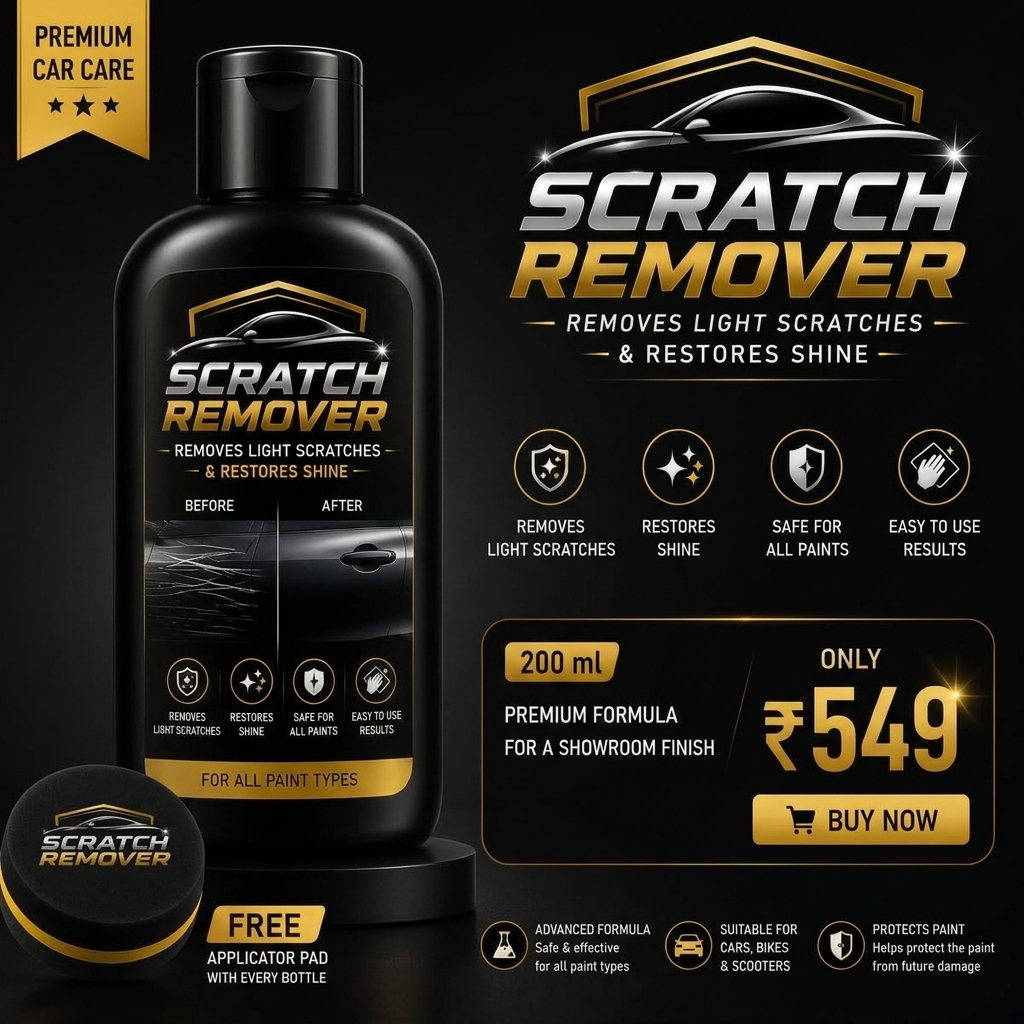
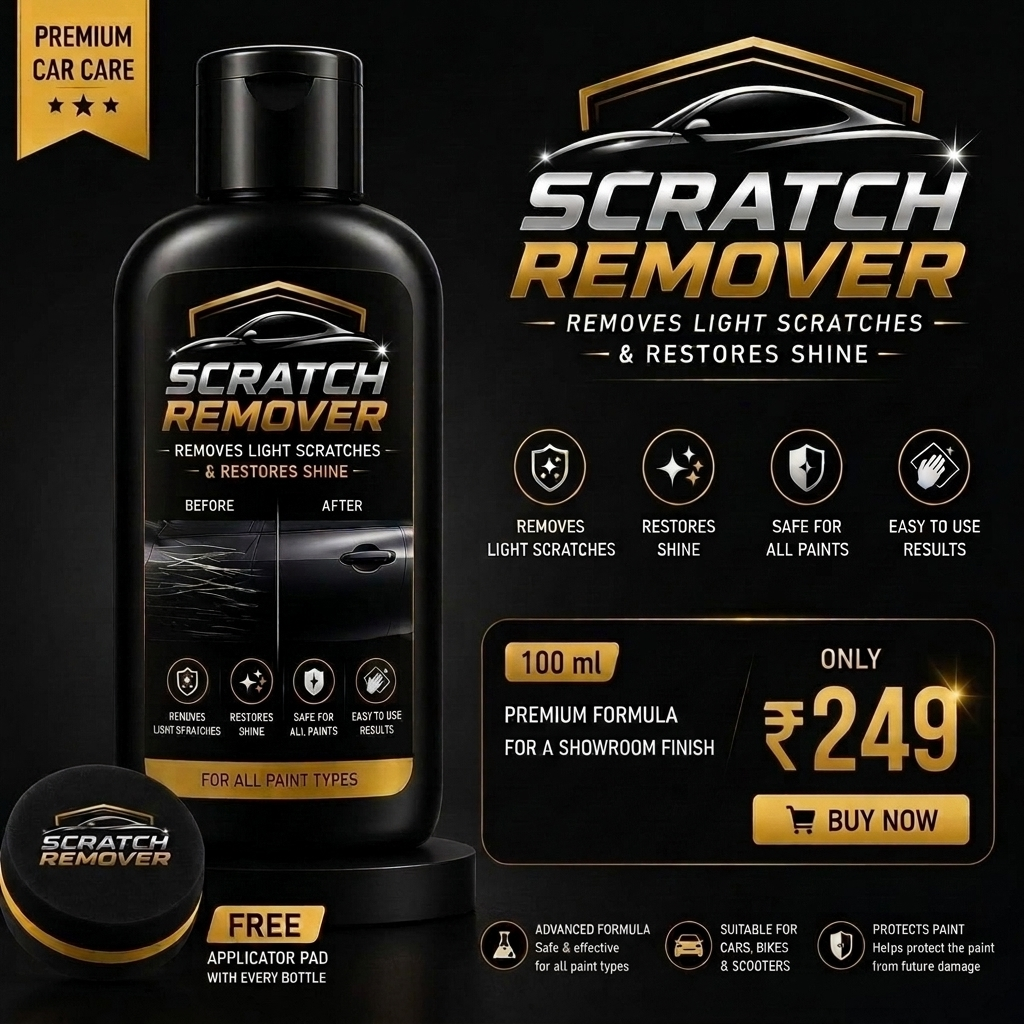
Add files via upload

diff --git a/checkout.html b/checkout.html
@@ -29,7 +29,7 @@
 
     <div class="qr-box">
       <img src="qr_code.jpeg" alt="UPI payment QR code" />
-      <div class="qr-amount" id="qrAmount">549</div>
+      <div class="qr-amount" id="qrAmount">249</div>
       <div class="qr-upi">UPI ID: yourstore@upi &middot; Scan &amp; Pay</div>
     </div>
 
@@ -42,7 +42,7 @@
 
     <div class="order-recap">
       <span>Order total</span>
-      <b>&#8377;<span id="recapAmount">549</span></b>
+      <b>&#8377;<span id="recapAmount">249</span></b>
     </div>
   </div>
 
@@ -86,7 +86,7 @@
         <textarea id="message" name="message" placeholder="Anything else we should know?"></textarea>
       </div>
 
-      <input type="hidden" id="amount" name="amount" value="549" />
+      <input type="hidden" id="amount" name="amount" value="249" />
       <input type="hidden" id="time" name="time" value="" />
 
       <div class="form-submit">
@@ -107,7 +107,7 @@
 
     var params = new URLSearchParams(window.location.search);
     var amount = params.get('amount');
-    if (!amount || isNaN(amount) || Number(amount) <= 0) amount = "549";
+    if (!amount || isNaN(amount) || Number(amount) <= 0) amount = "249";
     document.getElementById('qrAmount').textContent = amount;
     document.getElementById('recapAmount').textContent = amount;
     document.getElementById('amount').value = amount;

diff --git a/index.html b/index.html
@@ -66,21 +66,21 @@
     <div class="watching">&#128064; 97 people are viewing this product now</div>
 
     <div class="price-row">
-      <span class="price-now">&#8377;549</span>
+      <span class="price-now">&#8377;249</span>
       <span class="price-was">&#8377;1,099</span>
       <span class="price-sale">Sale</span>
     </div>
     <div class="ship-note">&#128666; Free shipping across India</div>
 
     <div class="pack-grid" style="grid-template-columns: 1fr;">
-      <div class="pack selected" data-amount="549">
+      <div class="pack selected" data-amount="249">
         <span class="name">1 Pack</span>
-        <div class="amt">549<span class="was">&#8377;1,099</span></div>
+        <div class="amt">249<span class="was">&#8377;1,099</span></div>
       </div>
     </div>
 
     <div class="cta-row">
-      <a href="checkout.html?amount=549" id="mainCta" class="btn btn-primary btn-block">
+      <a href="checkout.html?amount=249" id="mainCta" class="btn btn-primary btn-block">
         <svg width="18" height="18" viewBox="0 0 24 24" fill="none" stroke="currentColor" stroke-width="2"><circle cx="9" cy="21" r="1"/><circle cx="20" cy="21" r="1"/><path d="M1 1h4l2.68 13.39a2 2 0 002 1.61h9.72a2 2 0 002-1.61L23 6H6"/></svg>
         Buy Now &mdash; Pay by UPI QR
       </a>

diff --git a/style.css b/style.css
@@ -210,3 +210,7 @@ footer{background:var(--bg-soft);border-top:1px solid var(--border);padding:40px
 .status-box.error{background:#FDECEA;color:#C6301F;border:1px solid #F6C6C0;}
 .spinner{width:15px;height:15px;border:2px solid rgba(255,255,255,.4);border-top-color:#fff;border-radius:50%;animation:spin .7s linear infinite;display:inline-block;}
 @keyframes spin{to{transform:rotate(360deg);}}
+
+
+
+